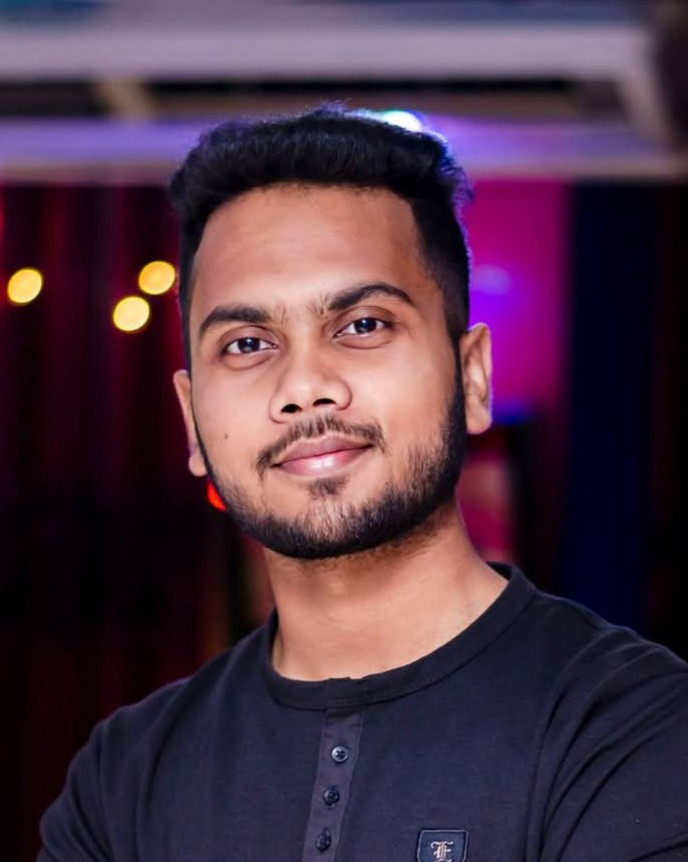
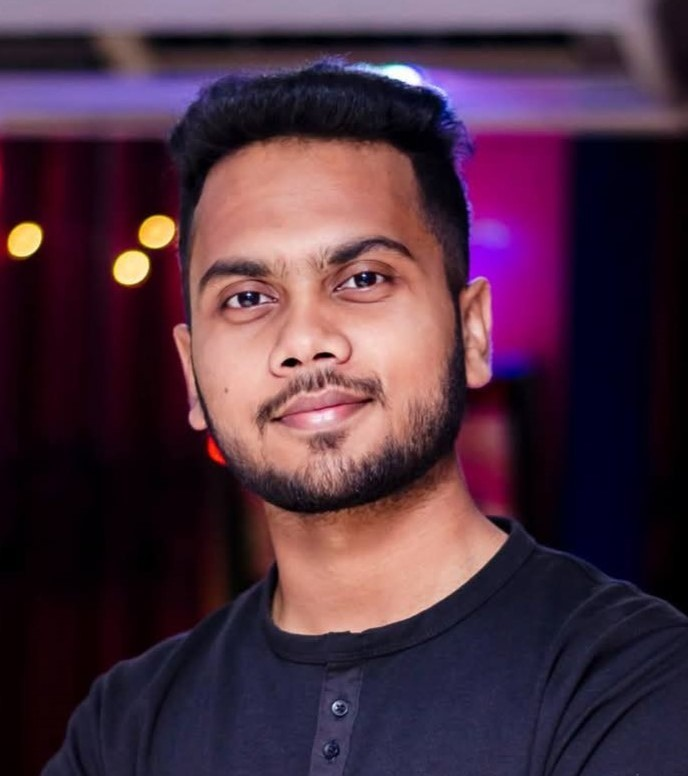
team picture updated

diff --git a/about.html b/about.html
@@ -126,13 +126,7 @@
     </section><!-- /About Section -->
 
     <!-- Team Section -->
-    <section id="team" class="team section light-background">
-
-      <!-- Section Title -->
-      <div class="container section-title" data-aos="fade-up">
-        <h2>Our Team</h2>
-        <p>"Meet the Experts Behind Our Innovation"</p>
-      </div><!-- End Section Title -->
+    <section id="team" class="team section">
 
       <div class="container">
 
@@ -141,7 +135,7 @@
           <div class="col-lg-3 col-md-6 d-flex align-items-stretch" data-aos="fade-up" data-aos-delay="100">
             <div class="team-member">
               <div class="member-img">
-                <img src="assets/img/team/team-1.jpg" class="img-fluid" alt="">
+                <img src="assets/img/team/team-8.jpeg" class="img-fluid" alt="">
                 <div class="social">
                   <a href=""><i class="bi bi-twitter-x"></i></a>
                   <a href=""><i class="bi bi-facebook"></i></a>
@@ -150,8 +144,8 @@
                 </div>
               </div>
               <div class="member-info">
-                <h4>MD. Maruf Ahmed</h4>
-                <span>Chief Executive Officer</span>
+                <h4>Bakr Jameel</h4>
+                <span>Founder</span>
               </div>
             </div>
           </div><!-- End Team Member -->
@@ -159,7 +153,7 @@
           <div class="col-lg-3 col-md-6 d-flex align-items-stretch" data-aos="fade-up" data-aos-delay="200">
             <div class="team-member">
               <div class="member-img">
-                <img src="assets/img/team/team-2.jpg" class="img-fluid" alt="">
+                <img src="assets/img/team/team-9.jpg" class="img-fluid" alt="">
                 <div class="social">
                   <a href=""><i class="bi bi-twitter-x"></i></a>
                   <a href=""><i class="bi bi-facebook"></i></a>
@@ -168,8 +162,8 @@
                 </div>
               </div>
               <div class="member-info">
-                <h4>Sarah Jhonson</h4>
-                <span>Product Manager</span>
+                <h4>Faisal Mohammed</h4>
+                <span>Managing Director</span>
               </div>
             </div>
           </div><!-- End Team Member -->
@@ -177,7 +171,7 @@
           <div class="col-lg-3 col-md-6 d-flex align-items-stretch" data-aos="fade-up" data-aos-delay="300">
             <div class="team-member">
               <div class="member-img">
-                <img src="assets/img/team/team-3.jpg" class="img-fluid" alt="">
+                <img src="assets/img/team/team-6.jpg" class="img-fluid" alt="">
                 <div class="social">
                   <a href=""><i class="bi bi-twitter-x"></i></a>
                   <a href=""><i class="bi bi-facebook"></i></a>
@@ -186,8 +180,8 @@
                 </div>
               </div>
               <div class="member-info">
-                <h4>MD. Faisal</h4>
-                <span>CTO</span>
+                <h4>Mezanur Maruf</h4>
+                <span>Operation Manager</span>
               </div>
             </div>
           </div><!-- End Team Member -->
@@ -195,7 +189,7 @@
           <div class="col-lg-3 col-md-6 d-flex align-items-stretch" data-aos="fade-up" data-aos-delay="400">
             <div class="team-member">
               <div class="member-img">
-                <img src="assets/img/team/team-4.jpg" class="img-fluid" alt="">
+                <img src="assets/img/team/team-5.jpg" class="img-fluid" alt="">
                 <div class="social">
                   <a href=""><i class="bi bi-twitter-x"></i></a>
                   <a href=""><i class="bi bi-facebook"></i></a>
@@ -204,8 +198,8 @@
                 </div>
               </div>
               <div class="member-info">
-                <h4>Amanda Jepson</h4>
-                <span>Accountant</span>
+                <h4>Tamim Ahmed</h4>
+                <span>Software developer</span>
               </div>
             </div>
           </div><!-- End Team Member -->

diff --git a/team.html b/team.html
@@ -119,7 +119,7 @@
           <div class="col-lg-3 col-md-6 d-flex align-items-stretch" data-aos="fade-up" data-aos-delay="200">
             <div class="team-member">
               <div class="member-img">
-                <img src="assets/img/team/team-1.jpg" class="img-fluid" alt="">
+                <img src="assets/img/team/team-9.jpg" class="img-fluid" alt="">
                 <div class="social">
                   <a href=""><i class="bi bi-twitter-x"></i></a>
                   <a href=""><i class="bi bi-facebook"></i></a>
@@ -137,7 +137,7 @@
           <div class="col-lg-3 col-md-6 d-flex align-items-stretch" data-aos="fade-up" data-aos-delay="300">
             <div class="team-member">
               <div class="member-img">
-                <img src="assets/img/team/team-7.jpg" class="img-fluid" alt="">
+                <img src="assets/img/team/team-6.jpg" class="img-fluid" alt="">
                 <div class="social">
                   <a href=""><i class="bi bi-twitter-x"></i></a>
                   <a href=""><i class="bi bi-facebook"></i></a>
